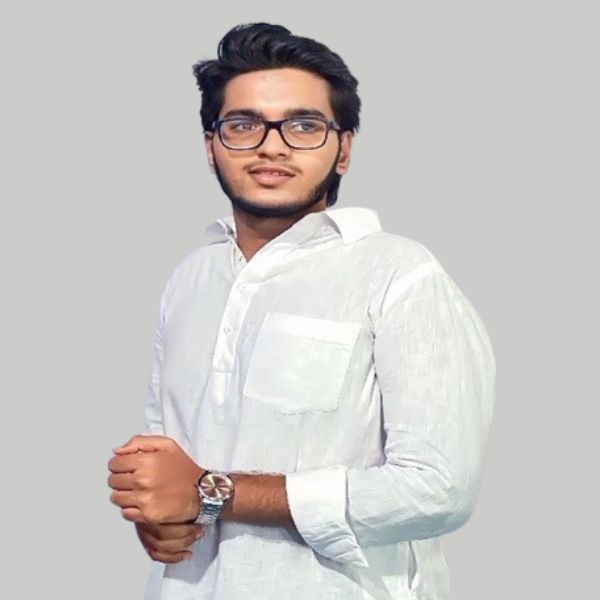
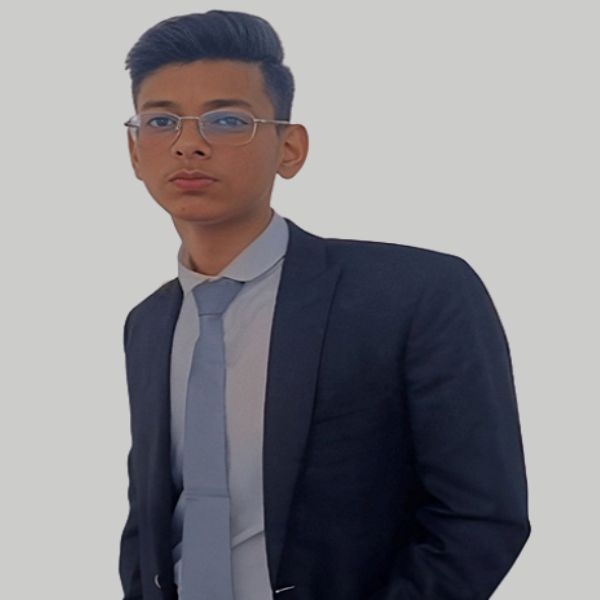
232323

diff --git a/index.html b/index.html
@@ -834,13 +834,13 @@
               </div>
               <div class="member-info">
                 <div class="social">
-                  <a href="https://arshshaikh.rf.gd"><i class="bi bi-person-check"></i></a>
-                  <a href=""><i class="bi bi-github"></i></a>
+                  <a href="#"><i class="bi bi-person-check"></i></a>
+                  <a href="#"><i class="bi bi-github"></i></a>
                  
-                  <a href="https://www.instagram.com/arshology.__/"><i class="bi bi-instagram"></i></a>
-                  <a href=""><i class="bi bi-linkedin"></i></a>
+                  <a href="#"><i class="bi bi-instagram"></i></a>
+                  <a href="#"><i class="bi bi-linkedin"></i></a>
                 </div>
-                <h4>Arsh Shaikh</h4>
+                <h4>Rajat Vishwakarma</h4>
                 <span>Graphic | UI/UX Designer</span>
               </div>
             </div>
